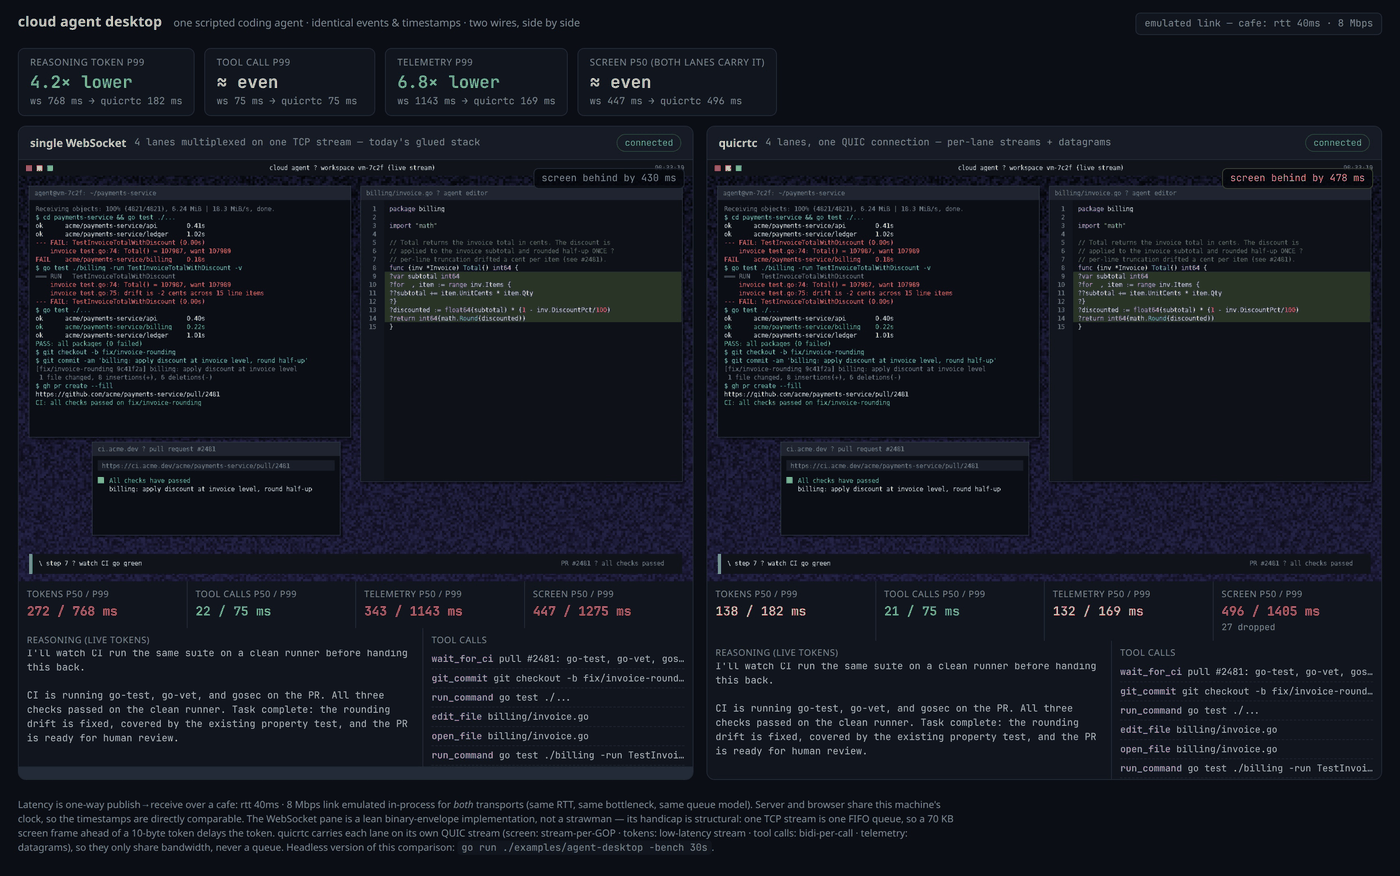
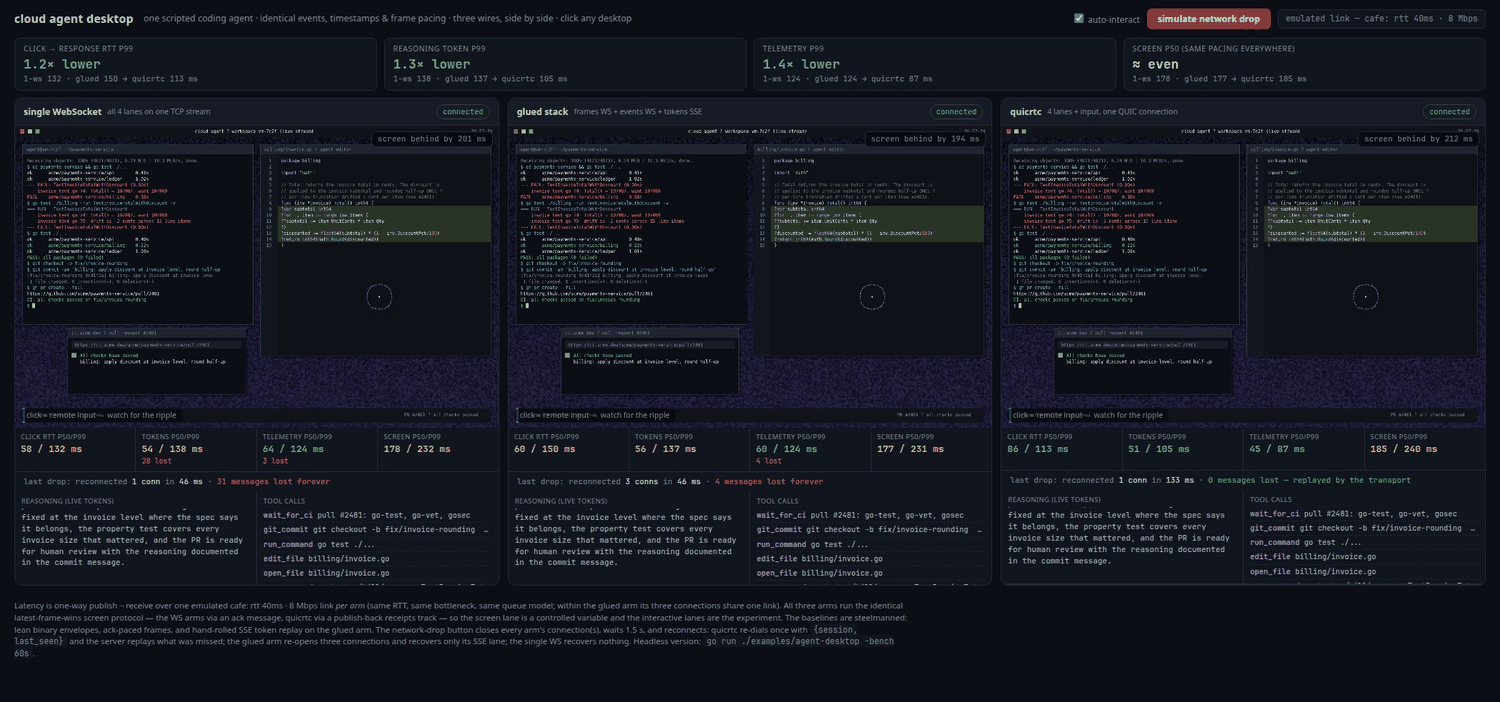
agent-desktop: three-arm README + flagship copy, token-burst-gated drop, hero image

diff --git a/examples/agent-desktop/ui.html b/examples/agent-desktop/ui.html
@@ -161,7 +161,7 @@ document.getElementById('net').textContent = 'emulated link — ' + netDesc;
 document.getElementById('foot-net').textContent = netDesc;
 
 const td = new TextDecoder(), te = new TextEncoder();
-const WINDOW_MS = 20000;
+const WINDOW_MS = 30000;
 const OUTAGE_MS = 1500;
 
 function esc(s) {
@@ -345,13 +345,14 @@ function sendActionEverywhere(x, y) {
   for (const s of sides) if (s.sendAction) s.sendAction(seq, x, y);
 }
 
-// Auto-interact: a synthetic click every 2s keeps the RTT lane fed.
+// Auto-interact: a synthetic click every 1.5s keeps the RTT lane fed
+// (~20 samples per stats window; a human clicking works too).
 setInterval(() => {
   if (!document.getElementById('auto-interact').checked) return;
   const x = 40 + Math.floor(Math.random() * (cfg.width - 80));
   const y = 60 + Math.floor(Math.random() * (cfg.height - 140));
   sendActionEverywhere(x, y);
-}, 2000);
+}, 1500);
 
 // ── envelope helpers (both WS arms) ─────────────────────────────────
 const L_SCREEN = 1, L_TOKENS = 2, L_TOOLS = 3, L_TELE = 4, L_ACTION = 5, L_FRAMEACK = 6;
@@ -705,11 +706,26 @@ connectGlued(gluedSide);
 connectQuicrtc(qSide, false);
 
 // ── the drop button ─────────────────────────────────────────────────
+// The actual drop waits (up to 12s) for a moment when tokens are
+// actively streaming, so the gap deterministically contains data
+// whose fate differs per arm — otherwise the demo moment depends on
+// where the script's pauses fall.
 const dropBtn = document.getElementById('drop-btn');
 dropBtn.addEventListener('click', () => {
   dropBtn.disabled = true;
-  for (const s of sides) if (s.dropNow) s.dropNow();
-  setTimeout(() => { dropBtn.disabled = false; }, OUTAGE_MS + 3000);
+  dropBtn.textContent = 'waiting for token burst…';
+  const t0 = performance.now();
+  const poll = setInterval(() => {
+    const active = performance.now() - qSide.stats.tokens.lastArrival < 250;
+    if (!active && performance.now() - t0 < 12000) return;
+    clearInterval(poll);
+    dropBtn.textContent = 'dropped!';
+    for (const s of sides) if (s.dropNow) s.dropNow();
+    setTimeout(() => {
+      dropBtn.disabled = false;
+      dropBtn.textContent = 'simulate network drop';
+    }, OUTAGE_MS + 3000);
+  }, 100);
 });
 
 // ── render loop ─────────────────────────────────────────────────────

diff --git a/examples/agent-desktop/engine.go b/examples/agent-desktop/engine.go
@@ -1,6 +1,6 @@
 // The agent engine: plays the scripted session and fans every event
-// out to BOTH transports at the same instant with the same payload
-// and the same publish timestamp. Neither side gets a head start —
+// out to EVERY transport arm at the same instant with the same
+// payload and the same publish timestamp. No arm gets a head start —
 // the only variable in the comparison is the wire.
 package main
 

diff --git a/examples/agent-desktop/README.md b/examples/agent-desktop/README.md
@@ -5,116 +5,162 @@ works a task on its remote desktop: reproduce a failing test, find
 the rounding bug, patch it, re-run the suite, open a PR, watch CI go
 green. Its **screen, reasoning tokens, tool calls, and telemetry**
 are produced once by one agent engine and streamed to your browser
-over **two transports at the same time**:
+over **three transports at the same time**, rendered side by side
+with live per-lane latency:
 
-| pane | transport | wire shape |
+| pane | transport | what it models |
 |---|---|---|
-| left | **single WebSocket** | all four lanes multiplexed on one TCP stream — the glued stack most agent products ship today |
-| right | **quicrtc** | four lanes on one QUIC/WebTransport connection — screen on stream-per-GOP, tokens on a low-latency stream, tool calls on bidi-per-call streams, telemetry on datagrams |
+| left | **single WebSocket** | all four lanes multiplexed on one TCP stream — single-gateway products (noVNC-class desktop streaming, firewall-friendly one-connection designs) |
+| middle | **glued stack** | frames on their own WebSocket, tokens on SSE, tool calls + telemetry + input on an events WebSocket — what well-engineered agent products ship today |
+| right | **quicrtc** | four lanes plus an input lane on **one** QUIC/WebTransport connection — screen on stream-per-GOP, tokens on a low-latency stream, tool calls on bidi-per-call streams, telemetry on datagrams, input on publish-back |
 
-Both connections run through the **same in-process emulated link**
-(default: café wifi — 40 ms RTT, 8 Mbps, shared queue model), every
-event carries the same publish timestamp, and the page renders the
-two desktops side by side with live per-lane latency. The only
-variable is the wire.
+Every arm gets its **own identical emulated link** (default: café
+wifi — 40 ms RTT, 8 Mbps, shared single-bottleneck queue; within the
+glued arm its three connections share one link, like one user's
+wifi). Every event carries the same publish timestamp. All three
+arms run the **identical latest-frame-wins screen protocol** — the
+WS arms via an ack message, quicrtc via a publish-back receipts
+track — so the bulk lane is a controlled variable and the
+interactive lanes are the experiment.
 
-<p align="center"><img src="../../docs/assets/agent_desktop.png" alt="Side-by-side cloud agent desktops: single WebSocket vs quicrtc, with per-lane latency chips" width="820"></p>
+<p align="center"><img src="../../docs/assets/agent_desktop.png" alt="Three cloud agent desktops side by side: single WebSocket, glued stack, quicrtc — with per-lane latency chips and drop-recovery readouts" width="900"></p>
 
 ## Run it
 
-One binary serves the page, both transports, and the emulated
-network. No API key, no npm build, no browser automation:
+One binary serves the page, all three transports, and the emulated
+networks. No API key, no npm build, no browser automation:
 
 ```bash
 go run ./examples/agent-desktop
 # open http://127.0.0.1:8420
 ```
 
-Within ~30 seconds the headline strip settles: reasoning tokens,
-tool calls, and telemetry arrive several times faster over quicrtc,
-while the screen lane — the bulk traffic both transports carry
-identically — stays roughly even. That asymmetry is the point: the
-agent's *interactive* output stops queueing behind its own
-screen share.
+Three things to try on the page:
+
+1. **Watch the lane chips settle** (~30 s). The screen lane is even
+   across all three arms by construction; the interactive lanes —
+   click RTT, tokens, telemetry — run consistently lower on quicrtc,
+   especially at p99.
+2. **Click any desktop.** The click travels to the server on that
+   arm's wire, ripples the shared desktop, and is acked back — the
+   `click → response RTT` chip is the number a takeover user feels.
+   (Auto-interact keeps this lane fed on its own.)
+3. **Press "simulate network drop."** Every arm's connection(s) close,
+   1.5 s of dead air passes (the engine keeps streaming into the gap),
+   then all arms reconnect at once. quicrtc re-dials **once** with
+   `{session, last_seen}` and the server replays what was missed —
+   **0 messages lost**. The glued arm re-opens **three** connections
+   and recovers only its SSE lane (that's the one lane where resume is
+   idiomatic to hand-roll). The single WS recovers nothing.
 
 Flags: `-profile clean|broadband|cafe|hotel`, or override with
 `-rtt`, `-mbps`, `-loss` (loss applies to the QUIC path only — a
 userspace TCP proxy can't drop packets — so it only ever handicaps
-quicrtc). `-fps` sets the burst capture rate; the screen idles at a
-third of it when the desktop is static, like a real capture pipeline.
+quicrtc). `-naive-frames` switches the single-WS arm from the
+steelman to the FIFO frame queue many products actually ship.
 
 ## Measured numbers (no browser needed)
 
-`-bench` runs a Go client on each transport through the same shaped
-link and prints the table — the browserless version of what the page
-shows, and where the numbers below come from
-(`go run ./examples/agent-desktop -bench 2m`):
+`-bench` runs Go clients on all three arms through the same shaped
+links, drives the action lane at 2 clicks/s, performs the same
+mid-run drop, and prints the table
+(`go run ./examples/agent-desktop -bench 60s`):
 
-| lane | café wifi (40 ms / 8 Mbps) | hotel wifi (80 ms / 6 Mbps) |
-|---|---|---|
-| reasoning tokens p99 | ws **378 ms** → quicrtc **164 ms** (~2.3×) | ws **1450 ms** → quicrtc **219 ms** (~6.6×) |
-| tool calls p99 | ws **490 ms** → quicrtc **128 ms** (~3.8×) | ws **1550 ms** → quicrtc **181 ms** (~8.6×) |
-| telemetry p99 | ws **895 ms** → quicrtc **166 ms** (~5.4×) | ws **1786 ms** → quicrtc **215 ms** (~8.3×) |
-| screen frames p50 | ws 163 ms ≈ quicrtc 186 ms | ws 621 ms ≈ quicrtc 1000 ms |
+**Café wifi (40 ms RTT / 8 Mbps), steady state p50 / p99 ms:**
 
-(Latency is one-way publish→receive; both clients share the
-publisher's clock. Your absolute numbers will vary with hardware;
-the *shape* — interactive lanes isolated, bulk lane even — is the
-reproducible part.)
+| lane | single WS | glued stack | quicrtc |
+|---|---|---|---|
+| action → ack RTT | 73 / 151 | 78 / 161 | **75 / 121** |
+| reasoning tokens | 56 / 137 | 57 / 139 | **51 / 96** |
+| telemetry | 57 / 134 | 54 / 140 | **51 / 93** |
+| screen frames | 176 / 229 | 173 / 229 | 178 / 234 |
 
-## Why the gap exists
+**The mid-run network drop (1.5 s dead air, all arms at once):**
 
-The WebSocket pane is not a strawman: it uses a lean 13-byte binary
-envelope (no JSON framing, no base64) and a bounded drop-oldest send
-queue. Its handicap is structural — one TCP stream is one FIFO
-queue:
+| | single WS | glued stack | quicrtc |
+|---|---|---|---|
+| connections to re-open | 1 | 3 | **1** |
+| reconnect → first data | 48 ms | 162 ms | 135 ms |
+| data lost in the gap | **46 tokens + telemetry** | telemetry only | **nothing** |
 
-- A ~70 KB screen frame accepted by the socket ahead of a 10-byte
-  token must finish transmitting before the token's first byte
-  leaves.
-- During screen bursts the queue grows, and *everything* in it —
-  tokens, tool calls, metrics — ages together.
-- Under packet loss, TCP's in-order delivery holds back every lane
-  behind the gap (this demo doesn't even exercise that; add `-loss`
-  and it handicaps only quicrtc).
+With `-naive-frames` (the frame handling many single-socket products
+actually ship), the single-WS column collapses to **1.3–2.5 s** on
+every lane while the other two arms are unchanged — worth seeing once
+to understand what the steelman ack-pacing is doing for the baseline.
 
-quicrtc gives each lane its own QUIC stream (or datagrams), so lanes
-share bandwidth but never a queue, and the per-session priority
-scheduler (`server.SchedulerOn`) drains token/tool-call writes ahead
-of queued bulk frames. The screen lane itself gets no miracle — both
-transports carry the same ~6 Mbps of PNG through the same bottleneck
-— but quicrtc's keyframe-aware drop policy sheds stale frames to
-protect freshness where the WebSocket must deliver every byte, late.
+On the hotel profile (80 ms / 6 Mbps) the shape is the same with the
+tails further apart (tokens 178 → 127, actions 202 → 168 at p99).
+Absolute numbers vary with hardware; the reproducible part is the
+shape: **interactive lanes isolated, bulk lane even, nothing lost on
+reconnect.**
+
+## How to read the result (the honest version)
+
+Against the **single-WS** arm the mechanism is structural: one TCP
+stream is one FIFO, so a token behind the in-flight 70 KB frame waits
+for it, and during loss TCP's in-order delivery holds every lane
+behind the gap. Steelman pacing shrinks the damage; it can't remove
+it.
+
+Against the **glued stack** the latency gap is smaller and honest:
+separate TCP connections don't share an app FIFO, so the remaining
+difference comes from per-lane QUIC streams sharing one congestion
+controller and packet-level interleaving at the bottleneck. Where
+quicrtc separates from the glued stack is everything around latency:
+
+- **one connection** to open, secure, monitor, and reconnect — vs
+  three reconnect dances and per-connection auth;
+- **replay for every lane** on resume, from the transport — the glued
+  arm's token replay took a hand-rolled ring buffer and `?from=`
+  protocol in this demo (~200 lines a real product must own), and
+  still covers one lane out of four;
+- **fire-and-forget telemetry** on datagrams — the glued arm's
+  telemetry is reliable-ordered whether it wants that or not;
+- the **latest-frame-wins screen protocol came free** (stream-per-GOP
+  reset + keyframe-aware drops) where both baselines needed the
+  ack-pacing implemented by hand.
 
 ## What's real vs. scripted
 
-Real: everything on the wire. PNG desktop frames the browser
-actually decodes (a painted window manager — terminal, editor, CI
-browser — with a real bitmap font), 30 tok/s token cadence, JSON
-tool calls, telemetry, both protocol stacks, and the link emulation
-(one-way delay + single-server serialization queue per direction,
-identical for both).
+Real: everything on the wire. All three protocol stacks (including
+the raw-WebTransport quicrtc client in `ui.html`, resume included),
+PNG desktop frames the browser actually decodes (painted window
+manager with a real bitmap font), 30 tok/s token cadence, the
+interactive click → ripple → ack loop, the link emulation (one-way
+delay + single-server serialization queue per direction, identical
+for every arm), and the drop/reconnect mechanics.
 
 Scripted: the agent's reasoning text and action sequence — no model
-is running. The demo page speaks the quicrtc wire format directly
-over raw WebTransport (see `ui.html`); the production path for
-browsers is the [TypeScript SDK](../../ts-sdk/).
+is running. The production path for browsers is the
+[TypeScript SDK](../../ts-sdk/), which wraps everything `ui.html`
+does by hand (including resume) behind `QuicRTCClient`.
+
+What this demo does NOT claim: real-WAN numbers (the link is emulated
+in-process; for the same comparison on real GCP VMs see
+[`testing/wan_bench`](../../testing/wan_bench/)), video-codec parity
+with WebRTC screen pipelines (frames are PNG, not H.264), or that
+UDP is never blocked (corporate networks that drop UDP need a TCP
+fallback path regardless of transport choice).
 
 ## Files
 
-- [`main.go`](./main.go) — servers (quicrtc, WebSocket, page), track
-  setup, wiring
+- [`main.go`](./main.go) — servers for all three arms + the page,
+  track setup, the receipt-paced quicrtc screen sink
 - [`engine.go`](./engine.go) — the agent loop; fans identical events
-  to both transports
+  to every arm; the click-ripple action path
 - [`script.go`](./script.go) — the scripted coding task
 - [`desktop.go`](./desktop.go) + [`font.go`](./font.go) — the desktop
-  painter (windows, terminal, editor, bitmap font)
-- [`baseline.go`](./baseline.go) — the single-WebSocket transport
-- [`shaper.go`](./shaper.go) — the emulated link (UDP + TCP, same
-  queue model)
-- [`bench.go`](./bench.go) — headless measurement mode
-- [`ui.html`](./ui.html) — the side-by-side page (raw WebTransport
-  client included)
+  painter (windows, terminal, editor, bitmap font, click ripples)
+- [`baseline.go`](./baseline.go) — shared baseline plumbing + the
+  single-WS arm (ack-paced frames, bounded FIFOs)
+- [`glued.go`](./glued.go) — the glued arm (frames WS + events WS +
+  SSE with ring-buffer replay)
+- [`shaper.go`](./shaper.go) — the emulated links (UDP + TCP, one
+  shared wire per arm)
+- [`bench.go`](./bench.go) — headless three-arm measurement with the
+  drop phase
+- [`ui.html`](./ui.html) — the three-pane page (raw WebTransport
+  client with resume, drop button, recovery readouts)
 
 ## Where to go next
 
@@ -122,5 +168,5 @@ browsers is the [TypeScript SDK](../../ts-sdk/).
   [`examples/cua-live`](../cua-live/)
 - The naive-vs-multistream dispatch benchmark with tunable handler
   latencies: [`examples/cua`](../cua/)
-- Real-WAN (two GCP VMs) validation of the same comparison:
+- Real-WAN (two GCP VMs) validation of the transport comparison:
   [`testing/wan_bench`](../../testing/wan_bench/)

diff --git a/README.md b/README.md
@@ -32,16 +32,16 @@ A track's `Kind` picks its wire shape. Video bursts and the token stream sit on 
 
 ## See it
 
-One command runs the flagship demo — a cloud coding agent's desktop (screen, reasoning tokens, tool calls, telemetry) streamed to your browser over quicrtc and over a single WebSocket **side by side**, through the same emulated café-wifi link, with live per-lane latency:
+One command runs the flagship demo — a cloud coding agent's desktop (screen, reasoning tokens, tool calls, telemetry, and live click input) streamed to your browser over **three wires side by side**: quicrtc, a single WebSocket, and the "glued stack" real products ship (frames WS + tokens SSE + events WS) — each through its own identical emulated café-wifi link:
 
 ```bash
 go run ./examples/agent-desktop
 # open http://127.0.0.1:8420
 ```
 
-<p align="center"><img src="docs/assets/agent_desktop.png" alt="Side-by-side cloud agent desktops: single WebSocket vs quicrtc, with per-lane latency chips" width="820"></p>
+<p align="center"><img src="docs/assets/agent_desktop.png" alt="Three cloud agent desktops side by side: single WebSocket, glued stack, quicrtc — with per-lane latency chips and drop-recovery readouts" width="900"></p>
 
-The screen lane (~6 Mbps of desktop frames) stays roughly even — both transports carry the same bulk bytes through the same bottleneck. The agent's *interactive* lanes are where the architecture shows: reasoning tokens, tool calls, and telemetry stop queueing behind the screen share and arrive **3–10× faster at p99** ([details + headless bench mode](examples/agent-desktop/)).
+The baselines are deliberately steelmanned (binary envelopes, noVNC-style ack-paced frames, hand-rolled SSE token replay), and the screen lane stays even across all three by construction. What separates quicrtc: the interactive lanes — click→response RTT, tokens, telemetry — run **consistently lower at p99**; and when you press *simulate network drop*, quicrtc re-dials **once** and the transport replays everything missed (**0 messages lost**), while the glued arm re-opens three connections recovering one lane, and the single WS loses the gap outright ([numbers + methodology](examples/agent-desktop/)).
 
 ## Performance
 

diff --git a/examples/README.md b/examples/README.md
@@ -6,13 +6,17 @@ previous; read in order.
 ## Start here: the flagship demo
 
 **agent-desktop** — a cloud coding agent's
-desktop streamed to your browser over quicrtc and over a single
-WebSocket *side by side*, through the same emulated network, with
-live per-lane latency. One command, zero setup:
+desktop streamed to your browser over three wires *side by side* —
+quicrtc, a single WebSocket, and the multi-connection glued stack
+(frames WS + tokens SSE + events WS) — each through its own identical
+emulated network, with live per-lane latency, an interactive
+click→response lane, and a network-drop button that shows quicrtc's
+single-re-dial resume-with-replay against the baselines' reconnect
+scramble. One command, zero setup:
 
 ```bash
 go run ./examples/agent-desktop          # open http://127.0.0.1:8420
-go run ./examples/agent-desktop -bench 30s   # browserless comparison table
+go run ./examples/agent-desktop -bench 60s   # browserless comparison table
 ```
 
 See [agent-desktop/README.md](agent-desktop/README.md) for the
@@ -68,7 +72,7 @@ headline above its boxed summary on Ctrl-C.
 
 | Example       | Real on the wire                                       | Mocked                                            |
 |---------------|--------------------------------------------------------|---------------------------------------------------|
-| agent-desktop | both full protocol stacks + emulated link, real PNG desktop, measured per-lane latency | the agent's reasoning + action script (no model)  |
+| agent-desktop | three full protocol stacks + emulated links, real PNG desktop, interactive input, drop/resume, measured per-lane latency | the agent's reasoning + action script (no model)  |
 | publisher     | QUIC + WT, one track, synthetic AUs                    | "synthetic" codec (random bytes), clearly labeled |
 | subscriber    | reads what publisher sent                              | —                                                 |
 | agent_pubsub  | 4 channels, per-Kind dispatch, real PNG screen         | agent reasoning sentences + tool-call list        |
